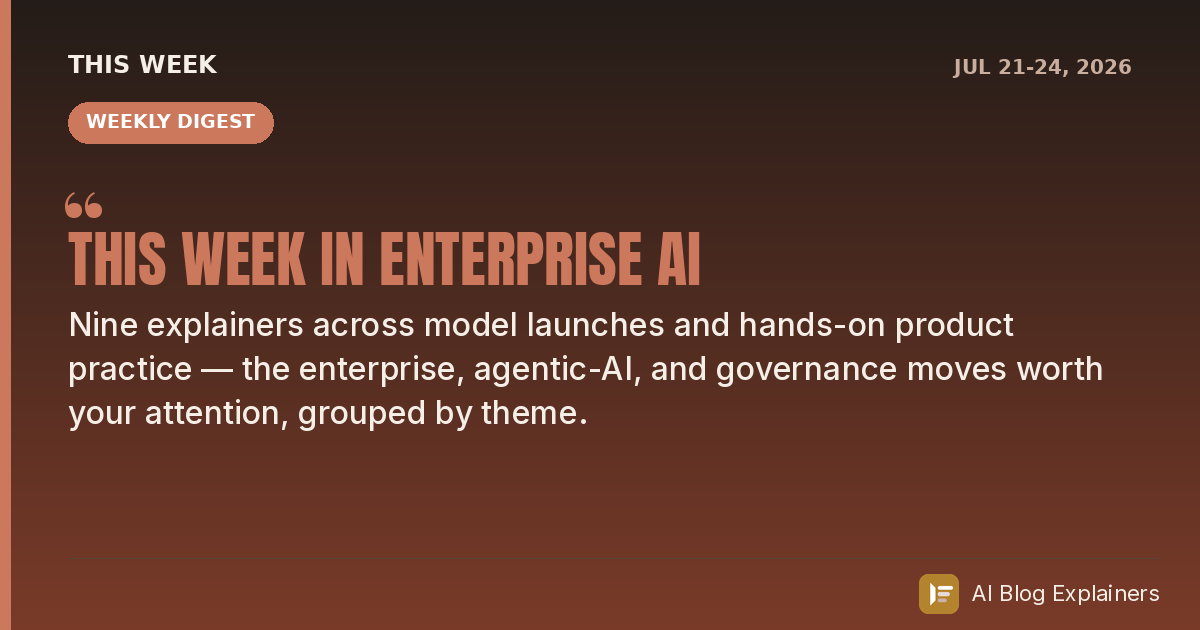
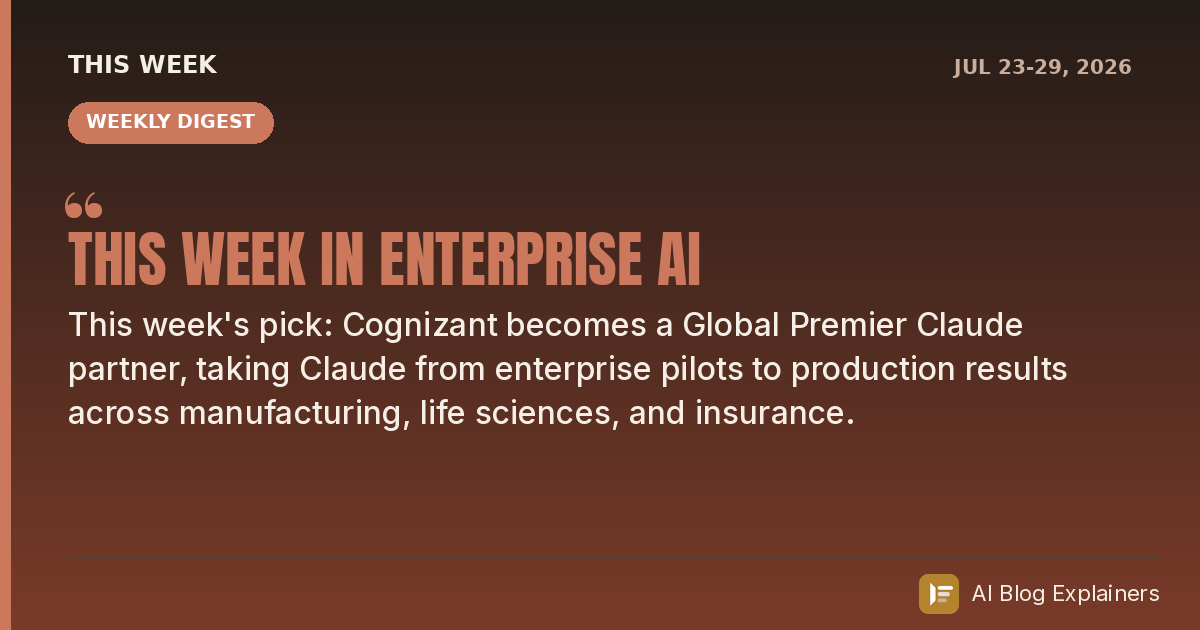
Add explainer + share card: Cognizant Takes Claude From Pilot to Production

Changed region(s): [[0.0617, 0.4825, 0.925, 0.6032], [0.0617, 0.6333, 0.7092, 0.6937], [0.8325, 0.0905, 0.8942, 0.1206]]

diff --git a/explainers/cognizant-anthropic.html b/explainers/cognizant-anthropic.html
@@ -1,0 +1,314 @@
+<!DOCTYPE html>
+<html lang="en">
+<head>
+<meta charset="UTF-8">
+<meta name="viewport" content="width=device-width, initial-scale=1.0">
+<link rel="icon" href="../favicon.svg" type="image/svg+xml">
+<meta property="og:type" content="article">
+<meta property="og:title" content="Cognizant Takes Claude From Pilot to Production">
+<meta property="og:description" content="Cognizant becomes a Global Premier Partner in the Claude Partner Network — embedding Claude across its engineering platforms and a 350,000-person workforce to close the gap between AI capability and business results.">
+<meta property="og:url" content="https://snigdhadasgupta.github.io/ai-blog-explainers/explainers/cognizant-anthropic.html">
+<meta property="og:image" content="https://snigdhadasgupta.github.io/ai-blog-explainers/share-cards/cognizant-anthropic.png">
+<meta property="og:image:secure_url" content="https://snigdhadasgupta.github.io/ai-blog-explainers/share-cards/cognizant-anthropic.png">
+<meta property="og:image:type" content="image/png">
+<meta property="og:image:width" content="1200">
+<meta property="og:image:height" content="630">
+<meta name="twitter:card" content="summary_large_image">
+<meta name="twitter:title" content="Cognizant Takes Claude From Pilot to Production">
+<meta name="twitter:image" content="https://snigdhadasgupta.github.io/ai-blog-explainers/share-cards/cognizant-anthropic.png">
+<title>Cognizant &times; Anthropic &mdash; Explainer</title>
+<style>
+  :root{
+    --clay:#CC785C;--clay-dark:#A8543C;--clay-deep:#7A3B29;--ink:#1F1B18;--slate:#3D3733;--stone:#6B6259;--cream:#F5F2EC;--paper:#FBFAF6;--sand:#EDE7DB;--line:#DED6C7;
+    --accent:#A64B2A;--accent-deep:#7A3320;
+    --serif:'Georgia','Times New Roman',serif;--sans:-apple-system,'Segoe UI',Helvetica,Arial,sans-serif;--mono:'SFMono-Regular','Consolas','Menlo',monospace;
+  }
+  *{box-sizing:border-box;margin:0;padding:0;}
+  body{background:var(--cream);color:var(--ink);font-family:var(--sans);line-height:1.6;-webkit-font-smoothing:antialiased;}
+  .wrap{max-width:1080px;margin:0 auto;padding:0 24px;}
+  .topbar{border-top:5px solid var(--accent);background:var(--paper);border-bottom:1px solid var(--line);}
+  .topbar .wrap{display:flex;align-items:center;justify-content:space-between;padding:16px 24px;}
+  .brand{display:flex;align-items:center;gap:12px;font-weight:700;letter-spacing:.02em;}
+  .brand .dot{width:26px;height:26px;border-radius:6px;background:var(--accent);display:inline-flex;align-items:center;justify-content:center;color:#fff;font-family:var(--serif);font-size:16px;}
+  .srcbadge{font-size:11px;letter-spacing:.14em;text-transform:uppercase;font-weight:700;color:#fff;background:var(--accent);padding:5px 12px;border-radius:100px;}
+  .hero{background:linear-gradient(160deg,#211511 0%,#5E2B1B 55%,var(--accent-deep) 100%);color:#F6ECE6;padding:46px 0 40px;position:relative;overflow:hidden;}
+  .herobg{position:absolute;top:0;right:-4%;height:100%;width:42%;pointer-events:none;opacity:.85;}
+  .herobg svg{width:100%;height:100%;display:block;}
+  .hnode{fill:var(--accent);}
+  .hero .wrap{max-width:900px;position:relative;z-index:1;}
+  .hero .tag{display:inline-block;font-size:12px;letter-spacing:.16em;text-transform:uppercase;color:#E7B9A6;border:1px solid rgba(231,185,166,.4);padding:5px 12px;border-radius:100px;margin-bottom:22px;}
+  .hero h1{font-family:var(--serif);font-size:clamp(30px,4.6vw,50px);line-height:1.09;font-weight:700;margin-bottom:18px;}
+  .hero p.lede{font-size:clamp(17px,2.2vw,21px);color:#F1DDD2;max-width:720px;}
+  .meta{display:flex;flex-wrap:wrap;gap:24px;margin-top:24px;padding-top:18px;border-top:1px solid rgba(246,236,230,.18);font-size:13px;}
+  .meta .m span{display:block;color:#DCA88F;letter-spacing:.12em;text-transform:uppercase;font-size:10.5px;margin-bottom:3px;}
+  .meta .m strong{font-weight:600;color:#F6ECE6;font-size:14px;}
+  section{padding:32px 0;border-bottom:1px solid var(--line);}
+  .eyebrow{font-size:12px;letter-spacing:.16em;text-transform:uppercase;color:var(--accent-deep);font-weight:700;margin-bottom:12px;display:flex;align-items:center;gap:10px;}
+  .eyebrow::before{content:"";width:26px;height:2px;background:var(--accent);display:inline-block;}
+  h2{font-family:var(--serif);font-size:clamp(24px,3.4vw,34px);line-height:1.15;margin-bottom:16px;color:var(--ink);}
+  h3{font-size:19px;margin-bottom:8px;color:var(--slate);}
+  p.body{font-size:16px;color:var(--slate);margin-bottom:12px;max-width:760px;}
+  .lead-quote{font-family:var(--serif);font-size:19px;line-height:1.4;color:var(--accent-deep);border-left:4px solid var(--accent);padding:4px 0 4px 20px;margin:18px 0;max-width:730px;}
+  .tldr{background:var(--paper);border:1px solid var(--line);border-radius:14px;padding:22px 26px;}
+  .tldr h2{font-size:20px;margin-bottom:14px;}
+  .tldr ul{list-style:none;counter-reset:tl;}
+  .tldr li{counter-increment:tl;position:relative;padding-left:46px;margin-bottom:11px;font-size:15.5px;color:var(--slate);}
+  .tldr li::before{content:counter(tl,decimal-leading-zero);position:absolute;left:0;top:-1px;font-family:var(--serif);font-size:19px;font-weight:700;color:var(--accent,var(--clay));}
+  .tldr li strong{color:var(--ink);font-weight:700;}
+  .figure{background:var(--paper);border:1px solid var(--line);border-radius:16px;padding:22px;margin:20px 0;}
+  .figure .cap{font-size:12.5px;color:var(--stone);text-transform:uppercase;letter-spacing:.1em;margin-bottom:20px;font-weight:700;}
+  .flow{display:grid;grid-template-columns:repeat(4,1fr);gap:6px;align-items:stretch;}
+  @media(max-width:820px){.flow{grid-template-columns:1fr 1fr;}}
+  .fstep{background:var(--cream);border:1px solid var(--line);border-radius:12px;padding:14px 10px;text-align:center;display:flex;flex-direction:column;align-items:center;}
+  .fstep .n{width:26px;height:26px;border-radius:50%;background:var(--accent);color:#fff;font-size:12px;font-weight:700;display:flex;align-items:center;justify-content:center;margin-bottom:8px;}
+  .fstep h4{font-size:12.5px;margin-bottom:4px;color:var(--ink);line-height:1.2;}
+  .fstep p{font-size:11px;color:var(--stone);line-height:1.35;}
+  .loopnote{text-align:center;margin-top:14px;font-size:13px;color:var(--accent-deep);font-weight:600;font-style:italic;}
+  .grid3{display:grid;grid-template-columns:repeat(3,1fr);gap:18px;margin-top:8px;}
+  @media(max-width:820px){.grid3{grid-template-columns:1fr;}}
+  .grid2{display:grid;grid-template-columns:repeat(2,1fr);gap:18px;margin-top:8px;}
+  @media(max-width:820px){.grid2{grid-template-columns:1fr;}}
+  .card{background:var(--paper);border:1px solid var(--line);border-radius:14px;padding:22px;}
+  .card h3{font-size:16px;margin-bottom:8px;}
+  .card p{font-size:13.5px;color:var(--stone);}
+  .card .pill{display:inline-block;font-size:10.5px;letter-spacing:.1em;text-transform:uppercase;font-weight:700;color:var(--accent-deep);background:#F2DED4;border-radius:100px;padding:4px 11px;margin-bottom:12px;}
+  .scardwrap{display:grid;grid-template-columns:repeat(2,1fr);gap:14px;}
+  @media(max-width:820px){.scardwrap{grid-template-columns:1fr;}}
+  .scard{background:var(--cream);border:1px solid var(--line);border-radius:12px;padding:18px 20px;}
+  .scard .big{font-family:var(--serif);font-size:34px;font-weight:700;color:var(--accent-deep);line-height:1;}
+  .scard .measure{font-size:11px;letter-spacing:.12em;text-transform:uppercase;font-weight:700;color:var(--stone);margin:9px 0 6px;}
+  .scard .bench{font-size:13.5px;font-weight:700;color:var(--ink);margin-bottom:3px;}
+  .scard .ctx{font-size:12.5px;color:var(--stone);line-height:1.42;}
+  .callout{background:linear-gradient(135deg,var(--ink),var(--accent-deep));color:#F6ECE6;border-radius:16px;padding:26px 28px;display:flex;flex-wrap:wrap;align-items:center;justify-content:space-between;gap:20px;}
+  .callout h2{color:#fff;margin-bottom:6px;}
+  .callout p{color:#EAD8CE;font-size:15px;max-width:560px;}
+  .btn{background:var(--accent);color:#fff;text-decoration:none;padding:13px 24px;border-radius:100px;font-weight:700;font-size:14.5px;white-space:nowrap;}
+  footer{padding:30px 0 46px;color:var(--stone);font-size:12.5px;}
+  footer a{color:var(--accent-deep);}
+  .src{margin-top:8px;}
+  .depthbar{position:sticky;top:0;z-index:50;background:var(--paper);border-bottom:1px solid var(--line);box-shadow:0 2px 10px -8px rgba(0,0,0,.35);}
+  .depthbar .wrap{display:flex;align-items:center;gap:14px;padding:12px 24px;flex-wrap:wrap;}
+  .depthbar .lbl{font-size:11px;letter-spacing:.14em;text-transform:uppercase;font-weight:700;color:var(--stone);}
+  .depthset{display:inline-flex;background:var(--sand);border-radius:100px;padding:4px;gap:2px;}
+  .depthset button{border:none;cursor:pointer;font-family:var(--sans);font-size:13px;font-weight:700;color:var(--slate);background:transparent;padding:7px 16px;border-radius:100px;transition:all .15s;}
+  .depthset button:hover{color:var(--ink);}
+  .depthset button.on{background:var(--accent);color:#fff;box-shadow:0 3px 10px -5px var(--accent-deep);}
+  .depthhint{font-size:12.5px;color:var(--stone);margin-left:auto;}
+  @media(max-width:640px){.depthhint{display:none;}.depthbar .wrap{gap:10px;padding:10px 18px;}.depthset button{padding:7px 13px;font-size:12.5px;}}
+  section[data-depth]{transition:opacity .2s;}
+  .sowhat{background:linear-gradient(135deg,#FFF7ED,#FDECDD);border:1px solid var(--accent);border-left:5px solid var(--accent);border-radius:14px;padding:22px 26px;margin:26px 0 4px;}
+  .sowhat .kick{font-size:11px;letter-spacing:.14em;text-transform:uppercase;font-weight:800;color:var(--accent-deep);display:flex;align-items:center;gap:8px;margin-bottom:9px;}
+  .sowhat .kick::before{content:"\2192";font-size:15px;}
+  .sowhat p{font-size:16px;line-height:1.55;color:var(--slate);margin:0;max-width:820px;}
+  .sowhat p strong{color:var(--ink);}
+</style>
+</head>
+<body>
+
+<div class="topbar">
+  <div class="wrap">
+    <a class="brand" href="../index.html" style="text-decoration:none;color:inherit;"><span class="dot">&#10039;</span> AI Blog Explainer</a>
+    <div class="srcbadge">Anthropic</div>
+  </div>
+</div>
+
+<header class="hero">
+  <div class="herobg" aria-hidden="true">
+    <svg viewBox="0 0 560 460" preserveAspectRatio="xMaxYMid slice"><g stroke="#fff" stroke-opacity=".18" stroke-width="1.5"><line x1="380" y1="230" x2="250" y2="118"/><line x1="380" y1="230" x2="520" y2="118"/><line x1="380" y1="230" x2="250" y2="342"/><line x1="380" y1="230" x2="520" y2="342"/><line x1="380" y1="230" x2="558" y2="230"/><line x1="380" y1="230" x2="228" y2="230"/></g><circle cx="380" cy="230" r="40" class="hnode"/><circle cx="380" cy="230" r="40" fill="none" stroke="#fff" stroke-opacity=".5" stroke-width="2"/><circle cx="380" cy="230" r="6" fill="#fff"/><g fill="#fff"><circle cx="250" cy="118" r="8" fill-opacity=".8"/><circle cx="520" cy="118" r="8" fill-opacity=".8"/><circle cx="250" cy="342" r="8" fill-opacity=".8"/><circle cx="520" cy="342" r="8" fill-opacity=".8"/><circle cx="558" cy="230" r="7" fill-opacity=".7"/><circle cx="228" cy="230" r="7" fill-opacity=".7"/></g></svg>
+  </div>
+  <div class="wrap">
+    <span class="tag">Anthropic &middot; Case Study &middot; July 27, 2026</span>
+    <h1>Cognizant Takes Claude From Pilot to Production</h1>
+    <p class="lede">Anthropic and Cognizant deepened their partnership &mdash; Cognizant becomes a Global Premier Partner in the Claude Partner Network, embedding Claude across its engineering platforms and a 350,000-person workforce to close the gap between AI capability and real business results.</p>
+    <div class="meta">
+      <div class="m"><span>Source</span><strong>Anthropic</strong></div>
+      <div class="m"><span>Topic</span><strong>Enterprise AI &middot; Partnership</strong></div>
+      <div class="m"><span>Theme</span><strong>Pilot &rarr; production</strong></div>
+      <div class="m"><span>Reading time</span><strong>5 min</strong></div>
+    </div>
+  </div>
+</header>
+
+<div class="depthbar">
+  <div class="wrap">
+    <span class="lbl">Read at your level</span>
+    <div class="depthset" id="aibe-depth">
+      <button data-lvl="tldr">Summary</button>
+      <button data-lvl="manager">Manager</button>
+      <button data-lvl="tech">Technical</button>
+    </div>
+    <span class="depthhint" id="aibe-depthhint"></span>
+  </div>
+</div>
+
+<section data-depth="tldr">
+  <div class="wrap">
+    <div class="tldr" data-tier-anchor>
+      <h2>The idea in five lines</h2>
+      <ul>
+        <li><strong>Global Premier Partner</strong> &mdash; Cognizant joins a small top tier of the Claude Partner Network, deepening a partnership first struck in late 2025.</li>
+        <li><strong>The gap it targets</strong> &mdash; model capability is outpacing enterprises&rsquo; ability to absorb it; Cognizant positions itself as the bridge from pilots to production.</li>
+        <li><strong>Already in production</strong> &mdash; measurable results in manufacturing, life sciences, and insurance, with financial services and telecom underway.</li>
+        <li><strong>Claude inside the platforms</strong> &mdash; embedded in Flowsource, Neuro AI Engineering, and Neuro IT Ops, with Claude Code driving spec-driven development.</li>
+        <li><strong>A workforce bet</strong> &mdash; 30,000+ associates already Claude-trained, scaling toward a 40,000-strong certification pipeline and, eventually, all 350,000+ staff.</li>
+      </ul>
+    </div>
+    <div class="sowhat">
+      <div class="kick">So what for you</div>
+      <p>The signal here isn&rsquo;t the logo &mdash; it&rsquo;s the pattern. <strong>Value shows up when a model is embedded into the systems and workflows you already run</strong>, wrapped in domain context and certified people, not when it sits in a standalone pilot. When you scope your next AI project, ask where Claude would plug <em>into</em> an existing platform, not sit beside it.</p>
+    </div>
+  </div>
+</section>
+
+<section data-depth="manager">
+  <div class="wrap">
+    <div class="eyebrow">Why this matters</div>
+    <h2>The problem isn&rsquo;t the model &mdash; it&rsquo;s absorption</h2>
+    <p class="body">Frontier models keep getting more capable, but most enterprises still struggle to turn that capability into outcomes. The bottleneck is rarely the model; it&rsquo;s the domain context, engineering depth, trust frameworks, and delivery scale needed to embed AI into the systems a business already runs on. That&rsquo;s the gap this partnership is built to close &mdash; and the reason a services partner, not just a model, sits at the center of it.</p>
+    <p class="lead-quote">&ldquo;AI capability is rising faster than enterprises can absorb it, and that gap is the defining problem of this moment. Our role is to be the bridge.&rdquo; &mdash; Ravi Kumar S, CEO, Cognizant</p>
+    <p class="body">Becoming a Global Premier Partner formalizes that role: Cognizant currently holds more Claude certifications than any other firm globally, and is applying Claude in live client work across regulated industries where reliability &mdash; not novelty &mdash; is the bar.</p>
+  </div>
+</section>
+
+<section data-depth="manager">
+  <div class="wrap">
+    <div class="eyebrow">Proof in production</div>
+    <h2>Four deployments, four different measures</h2>
+    <p class="body">These are heterogeneous results from separate client deployments &mdash; different industries, different metrics &mdash; not a single benchmark. Read each on its own terms.</p>
+    <div class="figure">
+      <div class="cap">Figure 1 &middot; Claude in live client work across regulated industries</div>
+      <div class="scardwrap">
+        <div class="scard"><div class="big">6 mo</div><div class="measure">Kickoff to a live portal</div><div class="bench">Manufacturing</div><div class="ctx">An AI-led customer-experience portal delivered for a global manufacturer within six months of kickoff.</div></div>
+        <div class="scard"><div class="big">Up to 40%</div><div class="measure">Less contract-review time</div><div class="bench">Life sciences</div><div class="ctx">An agentic contract-intelligence system for a biopharma company &mdash; with extraction accuracy lifted above 88% in that deployment.</div></div>
+        <div class="scard"><div class="big">~8 hrs/wk</div><div class="measure">Saved per underwriter</div><div class="bench">Insurance</div><div class="ctx">A risk-navigation tool turned hours of manual research into about a minute when evaluating similar accounts.</div></div>
+        <div class="scard"><div class="big">Full SDLC</div><div class="measure">Claude across delivery</div><div class="bench">Travelport</div><div class="ctx">Claude&rsquo;s large context window reads codebases to surface embedded business logic and modernize travel-distribution platforms.</div></div>
+      </div>
+    </div>
+  </div>
+</section>
+
+<section data-depth="tech">
+  <div class="wrap">
+    <div class="eyebrow">How it works</div>
+    <h2>Agents that build to spec &mdash; and check their own work</h2>
+    <p class="body">The clearest mechanism is inside Flowsource, Cognizant&rsquo;s full-stack engineering platform, which now runs an agentic workforce alongside human engineers by wiring Claude Code into its Spec-Driven Development module. Rather than free-form prompting, agents are <em>directed</em> by specifications, coding standards, and architectural blueprints &mdash; then their output is automatically checked back against those same standards to keep it production-grade.</p>
+    <div class="figure">
+      <div class="cap">Figure 2 &middot; Spec-Driven Development loop with Claude Code</div>
+      <div class="flow">
+        <div class="fstep"><div class="n">1</div><h4>Spec &amp; standards in</h4><p>Specifications, coding standards, and architectural blueprints define the target.</p></div>
+        <div class="fstep"><div class="n">2</div><h4>Agents build</h4><p>Claude Code agents work alongside human engineers to generate the implementation.</p></div>
+        <div class="fstep"><div class="n">3</div><h4>Auto-check</h4><p>Output is validated against the same specs and standards that directed it.</p></div>
+        <div class="fstep"><div class="n">4</div><h4>Production-grade</h4><p>Reliable software ships, with humans steering and reviewing throughout.</p></div>
+      </div>
+      <div class="loopnote">&#8635; The spec is both the instruction and the acceptance test &mdash; direction and verification from one source of truth.</div>
+    </div>
+    <p class="body">Claude is embedded the same way across Neuro AI Engineering and Neuro IT Ops, as part of an open, model-agnostic strategy &mdash; the platforms stay multi-model while Claude carries a growing share of the work.</p>
+  </div>
+</section>
+
+<section data-depth="tech">
+  <div class="wrap">
+    <div class="eyebrow">The workforce bet</div>
+    <h2>Certified people, not just certified models</h2>
+    <div class="grid3">
+      <div class="card"><span class="pill">Trained</span><h3>30,000+ today</h3><p>Associates who have already completed Claude training &mdash; the base from which certification scales.</p></div>
+      <div class="card"><span class="pill">Pipeline</span><h3>40,000 credentialed</h3><p>A Frontier Certified pipeline of 5,000 Frontier Certified Engineers and 10,000 Frontier Business Operators, credentialed directly by frontier-model companies, within a 40,000-professional target.</p></div>
+      <div class="card"><span class="pill">Ceiling</span><h3>350,000+ eventually</h3><p>The stated ambition is platform fluency across Cognizant&rsquo;s entire associate base as training expands company-wide.</p></div>
+    </div>
+  </div>
+</section>
+
+<section style="border-bottom:none;" data-depth="manager">
+  <div class="wrap">
+    <div class="callout">
+      <div>
+        <h2>Where the value actually lands</h2>
+        <p>The takeaway for your own roadmap: pair the model with domain context, an existing platform to embed into, and trained people to run it. Pilots prove capability; embedding into the systems and workflows a business already runs is what turns capability into outcomes.</p>
+      </div>
+      <a class="btn" href="https://www.anthropic.com/news/cognizant-anthropic">Read the post &rarr;</a>
+    </div>
+  </div>
+</section>
+
+<nav id="aibe-nav" style="max-width:1080px;margin:0 auto;padding:22px 24px;display:flex;align-items:center;justify-content:space-between;gap:14px;border-top:1px solid #DED6C7;flex-wrap:wrap;font-family:-apple-system,'Segoe UI',Helvetica,Arial,sans-serif;">
+  <a href="../index.html" style="font-size:13px;font-weight:700;color:#A8543C;text-decoration:none;">&larr; All explainers</a>
+  <div style="display:flex;gap:10px;">
+    <a id="aibe-prev" href="#" style="display:none;font-size:13px;font-weight:700;color:#A8543C;text-decoration:none;border:1px solid #DED6C7;border-radius:100px;padding:8px 15px;">&lsaquo; Prev</a>
+    <a id="aibe-next" href="#" style="display:none;font-size:13px;font-weight:700;color:#A8543C;text-decoration:none;border:1px solid #DED6C7;border-radius:100px;padding:8px 15px;">Next &rsaquo;</a>
+  </div>
+</nav>
+<script>
+(function(){
+  fetch("../feed.xml").then(function(r){return r.text();}).then(function(t){
+    var doc=new DOMParser().parseFromString(t,"application/xml");
+    var items=[].slice.call(doc.querySelectorAll("item")).map(function(it){var l=it.querySelector("link");return l?l.textContent.trim():"";}).filter(Boolean);
+    var mine=location.href.split("#")[0].split("?")[0].split("/").pop();
+    var i=-1; for(var k=0;k<items.length;k++){ if(items[k].split("/").pop()===mine){ i=k; break; } }
+    if(i<0) return;
+    var newer=items[i-1], older=items[i+1];
+    var pe=document.getElementById("aibe-prev"), ne=document.getElementById("aibe-next");
+    if(newer){ pe.href=newer; pe.style.display=""; }
+    if(older){ ne.href=older; ne.style.display=""; }
+  }).catch(function(){});
+})();
+</script>
+
+<footer>
+  <div class="wrap">
+    <p>Explainer artifact generated from the Anthropic Newsroom &middot; AI Blog Explainers house style (Claude clay palette, Anthropic rust accent).</p>
+    <p class="src">Source: <a href="https://www.anthropic.com/news/cognizant-anthropic">Expanding our partnership with Cognizant</a> &mdash; anthropic.com/news, July 27, 2026.</p>
+  </div>
+</footer>
+
+<div id="aibe-share" style="position:fixed;right:16px;bottom:16px;display:flex;flex-direction:column;gap:8px;z-index:9999;font-family:-apple-system,'Segoe UI',Helvetica,Arial,sans-serif;">
+  <a href="https://www.anthropic.com/news/cognizant-anthropic" target="_blank" rel="noopener" title="Read the original article"
+     style="background:#7A3320;color:#fff;text-decoration:none;font-size:12px;font-weight:700;padding:9px 13px;border-radius:100px;box-shadow:0 6px 18px -8px rgba(0,0,0,.5);text-align:center;">Read original &#8599;</a>
+  <button onclick="aibeCopy()" title="Copy link"
+     style="background:#A64B2A;color:#fff;border:none;cursor:pointer;font-size:12px;font-weight:700;padding:9px 13px;border-radius:100px;box-shadow:0 6px 18px -8px rgba(0,0,0,.5);">Copy link</button>
+  <div style="display:flex;gap:8px;">
+    <a id="aibe-li" target="_blank" rel="noopener" title="Share on LinkedIn"
+       style="flex:1;background:#0A66C2;color:#fff;text-decoration:none;font-size:12px;font-weight:700;padding:9px 0;border-radius:100px;text-align:center;box-shadow:0 6px 18px -8px rgba(0,0,0,.5);">in</a>
+    <a id="aibe-x" target="_blank" rel="noopener" title="Share on X"
+       style="flex:1;background:#1F1B18;color:#fff;text-decoration:none;font-size:12px;font-weight:700;padding:9px 0;border-radius:100px;text-align:center;box-shadow:0 6px 18px -8px rgba(0,0,0,.5);">X</a>
+  </div>
+</div>
+<script>
+(function(){
+  var u=encodeURIComponent(location.href), t=encodeURIComponent(document.title.replace(" — Explainer",""));
+  document.getElementById("aibe-li").href="https://www.linkedin.com/sharing/share-offsite/?url="+u;
+  document.getElementById("aibe-x").href="https://twitter.com/intent/tweet?url="+u+"&text="+t;
+})();
+function aibeCopy(){
+  navigator.clipboard.writeText(location.href).then(function(){
+    var b=event.target; var o=b.textContent; b.textContent="Copied!"; setTimeout(function(){b.textContent=o;},1400);
+  });
+}
+</script>
+<script>
+(function(){
+  var ORDER={tldr:0,manager:1,tech:2};
+  var HINT={
+    tldr:"Just the five-line summary + the takeaway.",
+    manager:"Summary, why it matters, and what to do — no deep internals.",
+    tech:"Everything, including how the agents build and the workforce numbers."
+  };
+  var btns=[].slice.call(document.querySelectorAll('#aibe-depth button'));
+  var hintEl=document.getElementById('aibe-depthhint');
+  function apply(lvl){
+    var max=ORDER[lvl]; if(max===undefined){lvl='manager';max=1;}
+    document.querySelectorAll('section[data-depth]').forEach(function(sec){
+      var t=ORDER[sec.getAttribute('data-depth')];
+      sec.style.display=(t<=max)?'':'none';
+    });
+    btns.forEach(function(b){b.classList.toggle('on',b.getAttribute('data-lvl')===lvl);});
+    if(hintEl) hintEl.textContent=HINT[lvl]||'';
+    try{localStorage.setItem('aibe-depth',lvl);}catch(e){}
+  }
+  btns.forEach(function(b){b.addEventListener('click',function(){apply(b.getAttribute('data-lvl'));});});
+  var saved='manager';
+  try{var v=localStorage.getItem('aibe-depth'); if(v&&ORDER[v]!==undefined)saved=v;}catch(e){}
+  apply(saved);
+})();
+</script>
+</body>
+</html>

diff --git a/this-week.html b/this-week.html
@@ -6,7 +6,7 @@
 <link rel="icon" href="favicon.svg" type="image/svg+xml">
 <meta property="og:type" content="website">
 <meta property="og:title" content="This Week in Enterprise AI">
-<meta property="og:description" content="9 explainers from 2 sources this week — the enterprise, agentic-AI, and governance moves worth your attention, grouped by theme.">
+<meta property="og:description" content="9 explainers from 3 sources this week — the enterprise, agentic-AI, and governance moves worth your attention, grouped by theme.">
 <meta property="og:url" content="https://snigdhadasgupta.github.io/ai-blog-explainers/this-week.html">
 <meta property="og:image" content="https://snigdhadasgupta.github.io/ai-blog-explainers/share-cards/this-week.png">
 <meta property="og:image:secure_url" content="https://snigdhadasgupta.github.io/ai-blog-explainers/share-cards/this-week.png">
@@ -70,9 +70,9 @@
     </svg>
   </div>
   <div class="wrap">
-    <span class="tag">This week &middot; Jul 21 – Jul 24, 2026</span>
+    <span class="tag">This week &middot; Jul 22 – Jul 27, 2026</span>
     <h1>This Week in Enterprise AI</h1>
-    <p>9 explainers from 2 sources this week — the enterprise, agentic-AI, and governance moves worth your attention, grouped by theme.</p>
+    <p>9 explainers from 3 sources this week — the enterprise, agentic-AI, and governance moves worth your attention, grouped by theme.</p>
   </div>
 </header>
 <main><div class="wrap">
@@ -88,7 +88,17 @@
       </a></div>
     </div>
     <div class="wk-theme">
-      <div class="wk-eyebrow"><span></span>Product & practice <em>8</em></div>
+      <div class="wk-eyebrow"><span></span>Enterprise case studies <em>1</em></div>
+      <div class="wk-grid">
+      <a class="wk-card" href="explainers/cognizant-anthropic.html">
+        <div class="wk-top"><span class="wk-badge" style="background:#A64B2A">Anthropic</span><span class="wk-cat">Case Study</span></div>
+        <h3>Cognizant Takes Claude From Pilot to Production</h3>
+        <p>Cognizant becomes a Global Premier Partner in the Claude Partner Network — embedding Claude across Flowsource and its Neuro platforms, with live results in manufacturing, life sciences, and insurance and 30,000+ associates already Claude-trained.</p>
+        <span class="wk-rt">5 min &middot; Read explainer &rarr;</span>
+      </a></div>
+    </div>
+    <div class="wk-theme">
+      <div class="wk-eyebrow"><span></span>Product & practice <em>7</em></div>
       <div class="wk-grid">
       <a class="wk-card" href="explainers/the-new-rules-of-context-engineering-for-claude-5-generation-models.html">
         <div class="wk-top"><span class="wk-badge" style="background:#CC785C">Claude</span><span class="wk-cat">Claude Code</span></div>
@@ -131,12 +141,6 @@
         <h3>Introducing OpenAI Presence</h3>
         <p>A battle-tested enterprise product for putting AI agents to work across customer and internal workflows — pairing model reasoning with policies, guardrails, and escalation rules.</p>
         <span class="wk-rt">5 min &middot; Read explainer &rarr;</span>
-      </a>
-      <a class="wk-card" href="explainers/introducing-chatgpt-small-business-program.html">
-        <div class="wk-top"><span class="wk-badge" style="background:#0F9D77">OpenAI</span><span class="wk-cat">AI Adoption</span></div>
-        <h3>Introducing the ChatGPT for Small Business Program</h3>
-        <p>OpenAI's new program helps small businesses build AI skills and automate work with ChatGPT Work — training, in-person academies, guides, and partner integrations.</p>
-        <span class="wk-rt">4 min &middot; Read explainer &rarr;</span>
       </a></div>
     </div>
 </div></main>

diff --git a/index.html b/index.html
@@ -274,6 +274,7 @@ const SOURCE_COLORS = {
 const NEW_DAYS = 3;
 
 const POSTS = [
+  {slug:"cognizant-anthropic",title:"Cognizant Takes Claude From Pilot to Production",date:"2026-07-27",source:"Anthropic",category:"Case Study",readingTime:"5 min",summary:"Cognizant becomes a Global Premier Partner in the Claude Partner Network — embedding Claude across Flowsource and its Neuro platforms, with live results in manufacturing, life sciences, and insurance and 30,000+ associates already Claude-trained."},
   {slug:"claude-opus-5",title:"Introducing Claude Opus 5",date:"2026-07-24",source:"Claude",category:"Model Launch",readingTime:"6 min",summary:"Opus 5 comes close to Fable 5's frontier intelligence at half the price — new state-of-the-art on coding and knowledge work, stronger at verifying its own work, and Anthropic's most aligned model to date."},
   {slug:"the-new-rules-of-context-engineering-for-claude-5-generation-models",title:"The New Rules of Context Engineering for Claude 5 Models",date:"2026-07-24",source:"Claude",category:"Claude Code",readingTime:"5 min",summary:"Anthropic removed over 80% of Claude Code's system prompt for its newest models with no measurable loss — and seven context-engineering 'best practices' flipped. Here's what replaced them."},
   {slug:"claude-models-explained-choosing-the-best-model-for-your-use-case",title:"Claude Models Explained: Choosing the Best Model for Your Use Case",date:"2026-07-24",source:"Claude",category:"Enterprise AI",readingTime:"5 min",summary:"Mythos, Fable, Opus, Sonnet, Haiku — start with the most intelligent model and tune with effort level. Why cost-per-task beats cost-per-token, and how evals settle the choice."},

diff --git a/share-posts.js b/share-posts.js
@@ -1,5 +1,13 @@
 window.__POSTS__ = [
   {
+    "slug": "cognizant-anthropic",
+    "source": "Anthropic",
+    "category": "Case Study",
+    "date": "2026-07-27",
+    "hook": "Pilot to production.",
+    "body": "Cognizant becomes a Global Premier Partner in the Claude Partner Network — embedding Claude across its engineering platforms and 350,000-person workforce, with results already live in manufacturing, life sciences, and insurance."
+  },
+  {
     "slug": "claude-opus-5",
     "source": "Claude",
     "category": "Model Launch",
